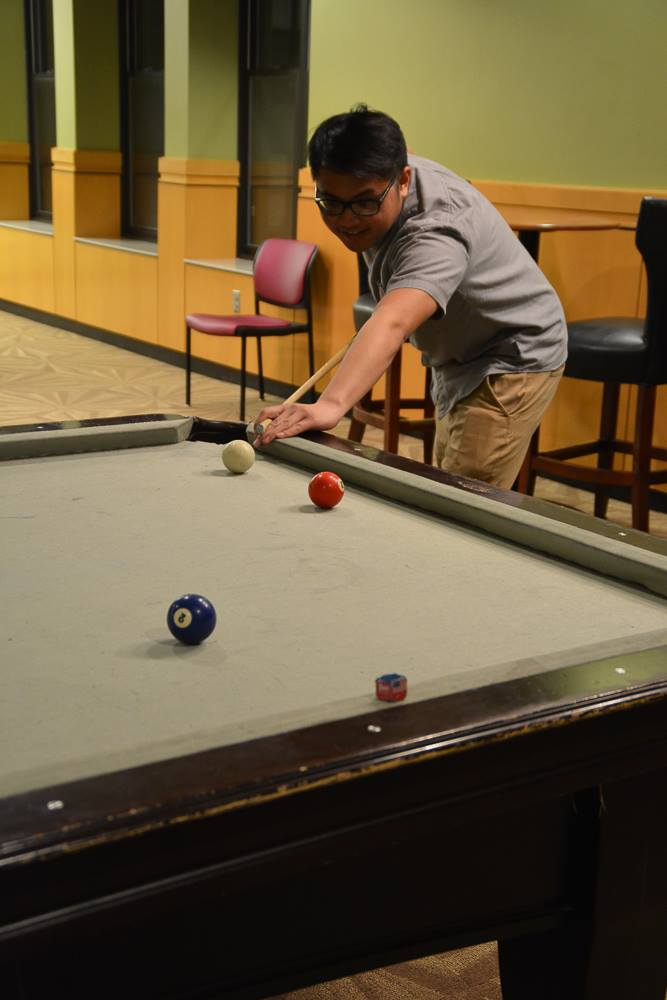
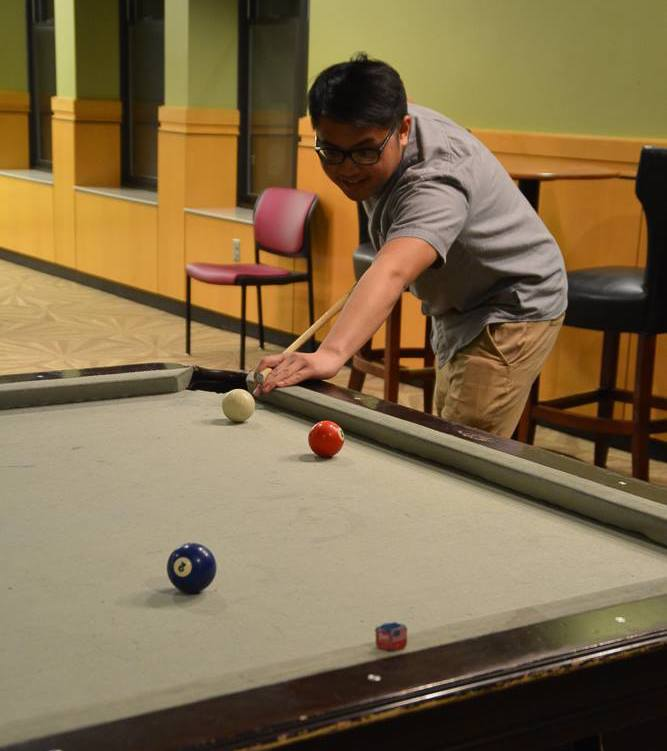
changed pic

diff --git a/interests.html b/interests.html
@@ -12,7 +12,11 @@
 
     <link href="https://maxcdn.bootstrapcdn.com/bootswatch/3.3.7/yeti/bootstrap.min.css" rel="stylesheet">
     <link href="css/main.css" rel="stylesheet">
-
+  <style>
+    img {
+        width:50%;
+    }
+    </style>
 </head>
 
 <body>
@@ -43,7 +47,7 @@
                 </div>
                 <div class="col-xs-12 col-sm-9">
                     <h1>Interests</h1>
-                    <img src="interests.jpeg" width="300" height="450" />
+                    <img src="interests.jpeg"/>
                     <p></p>
                     <p>Peep my interests:</p>
                     <ul>

diff --git a/reflection.html b/reflection.html
@@ -19,7 +19,7 @@
     </style>
     <style>
         p{text-indent: 30pt;}
-      </style>
+    </style>
 </head>
 
 <body>
